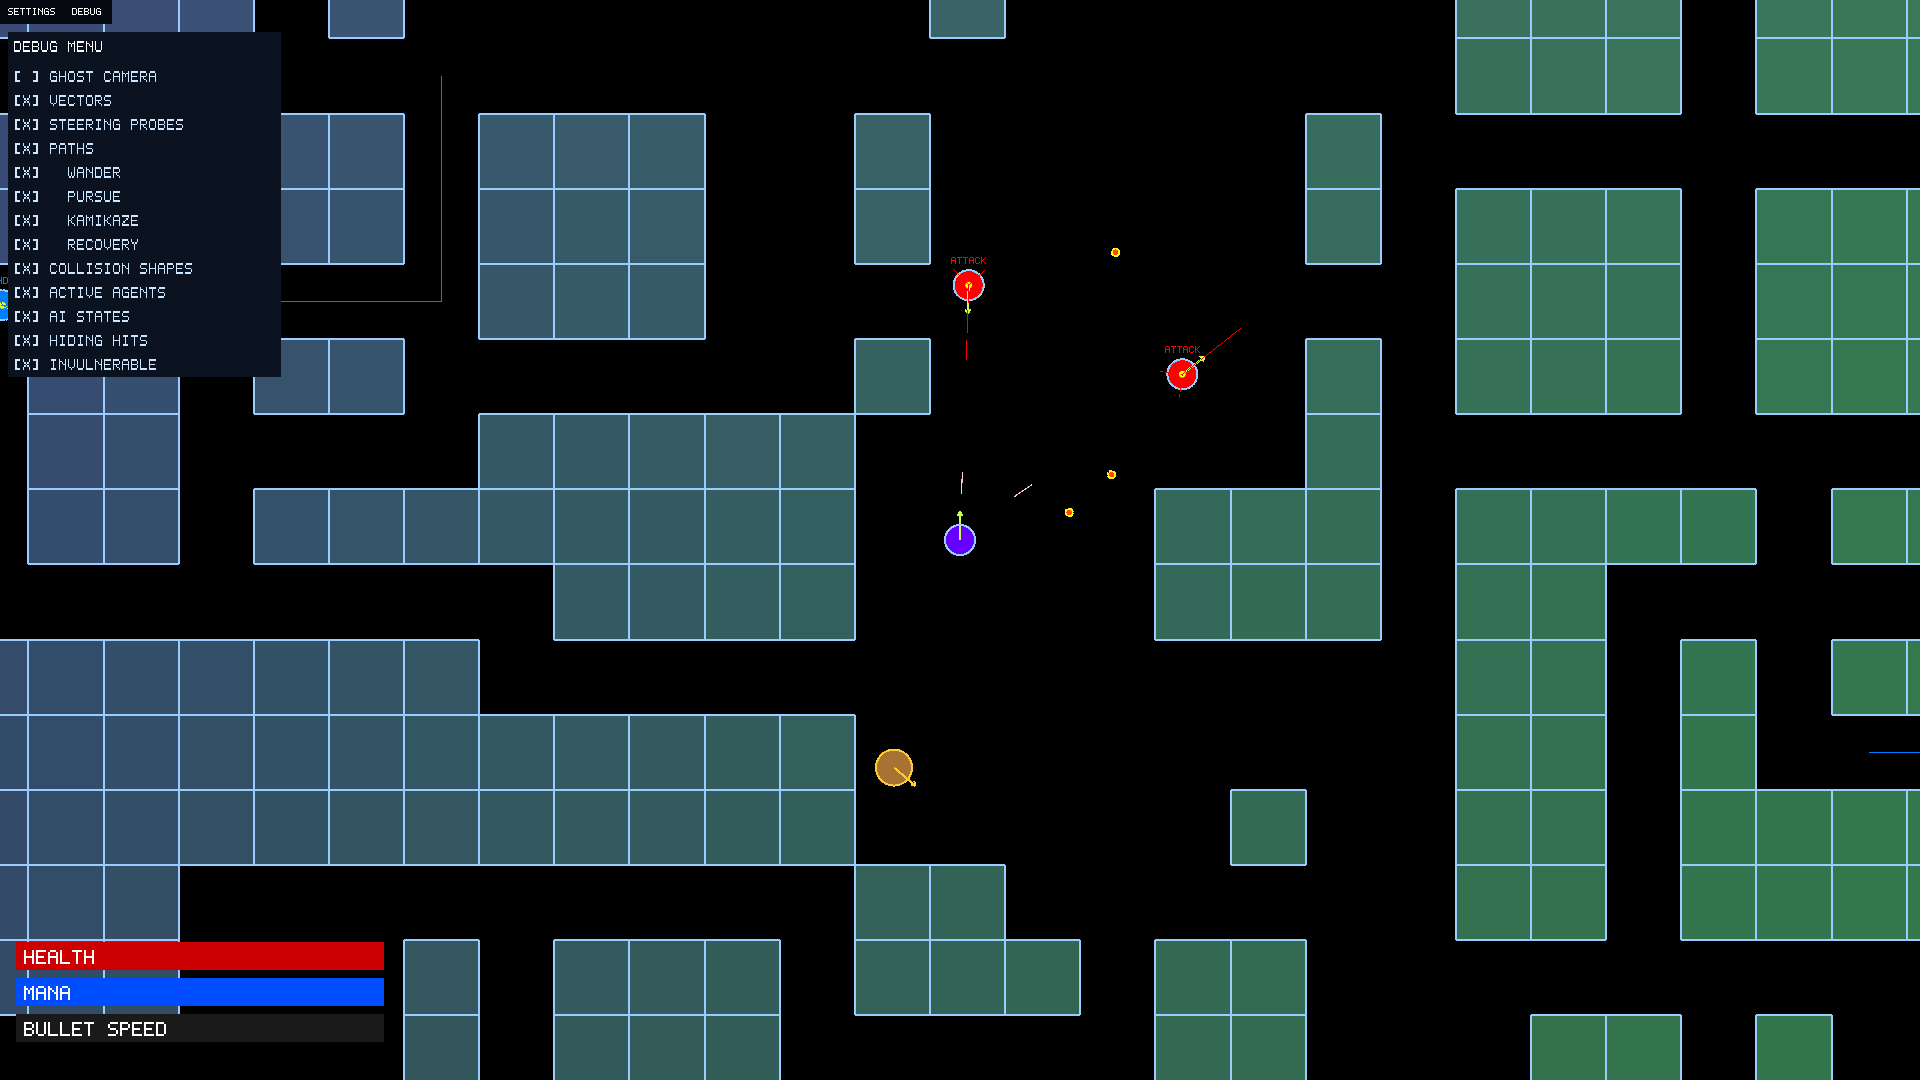
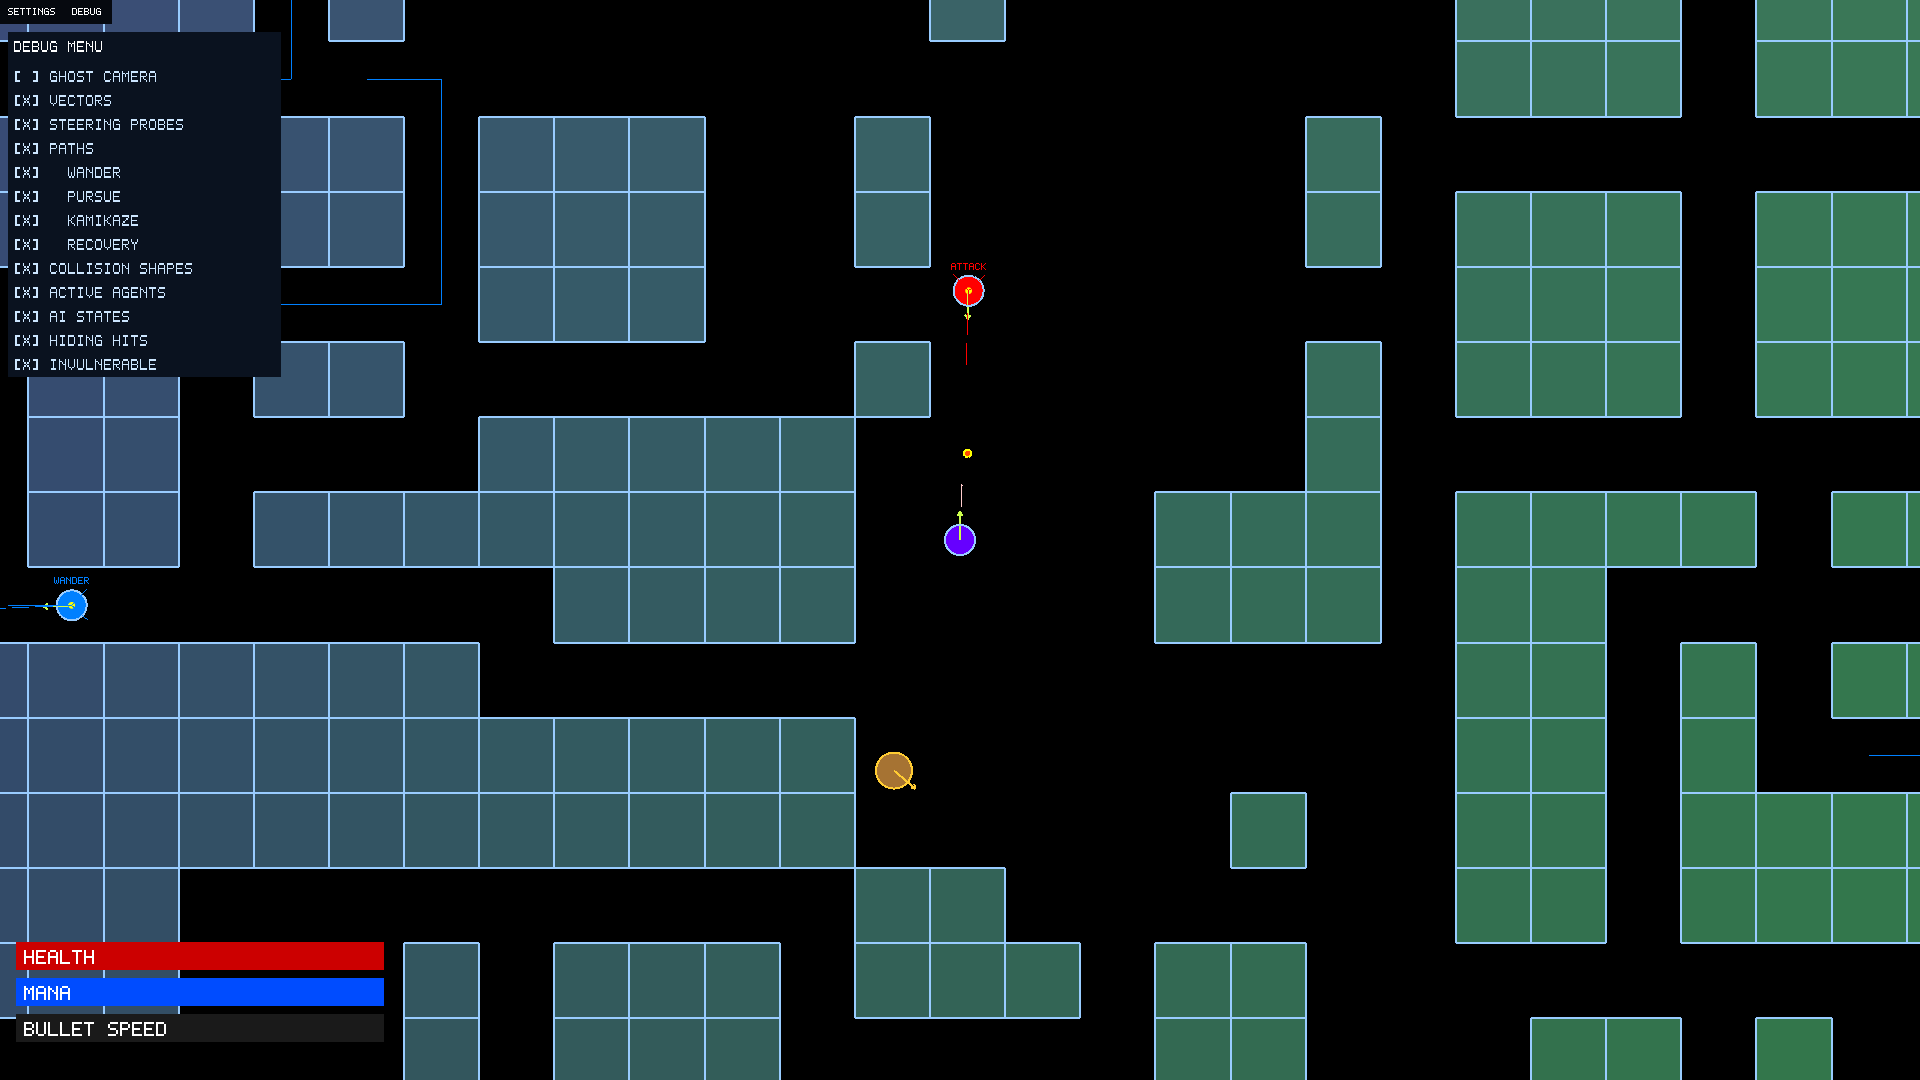
feat(tools): take the Dotio screenshots while the player shoots at an enemy
A screenshot after a fixed warm-up could show an empty corridor. The
player now plays on, 20 s at most, until an enemy is in sight and a bolt
is on its way. Refreshes the four Dotio captures with the reviewed player.

diff --git a/tools/capture/src/scenes.cpp b/tools/capture/src/scenes.cpp
@@ -43,6 +43,8 @@ constexpr double i4sim_warm_up_seconds = 116;
 /// Wheel notches the Dotio debug scenes zoom out: the screenshot for a wider view of the
 /// agents, the clip far enough to show the whole area the enemies spawn in.
 constexpr float dotio_debug_zoom_out = -3, dotio_debug_clip_zoom_out = -9;
+/// Longest a Dotio screenshot waits for an enemy in sight with a bolt on its way, in seconds.
+constexpr int dotio_fight_wait_seconds = 20;
 /// Longest the Dotio debug clip waits for an enemy to recover before it records anyway, in
 /// seconds. A recovery needs nine shots at the player; it usually comes within twenty.
 constexpr int dotio_recovery_wait_seconds = 60;
@@ -178,18 +180,35 @@ void dotio_debug_view(Stage &stage, float notches) {
     stage.step(zoom);
 }
 
+/// Frames the Dotio warm-up plays; a scene that plays on continues the count from here.
+constexpr int dotio_warm_up_frames = static_cast<int>(dotio_warm_up_seconds * clip_fps);
+
 void dotio_start(Stage &stage, bool debug) {
     stage.start_dotio();
     if (debug)
         dotio_debug_view(stage, dotio_debug_zoom_out);
     stage.point_at(at(stage, .7f, .45f));
-    stage.play(static_cast<int>(dotio_warm_up_seconds * clip_fps),
-               [&](int frame) { return dotio_play(stage, frame); });
+    stage.play(dotio_warm_up_frames, [&](int frame) { return dotio_play(stage, frame); });
 }
 
-/// Takes the screenshot of a started Dotio scene. The pointer first leaves the spot the
-/// player last aimed at: over the open debug menu it would highlight a row.
+/// Whether the player has an enemy in sight and a bolt on its way to it.
+bool dotio_fight_in_view(Stage &stage) {
+    if (!dotio_target(stage.dotio(), stage.runtime().camera))
+        return false;
+    for (auto &bolt : stage.dotio().world().GetBolts())
+        if (bolt.IsActive)
+            return true;
+    return false;
+}
+
+/// Takes the screenshot of a started Dotio scene at a moment that shows the game: the player
+/// plays on until it shoots at an enemy in sight. The pointer then leaves the spot the
+/// player aimed at, because over the open debug menu it would highlight a row.
 void dotio_shot(Stage &stage) {
+    stage.play_until(
+        dotio_fight_wait_seconds * clip_fps,
+        [&](int frame) { return dotio_play(stage, dotio_warm_up_frames + frame); },
+        [&] { return dotio_fight_in_view(stage); });
     stage.point_at(stage.viewport() - Vec2{2, 2});
     stage.shot();
 }
@@ -215,9 +234,7 @@ void dotio_settings(Stage &stage) {
 
 void dotio_clip(Stage &stage) {
     dotio_start(stage, false);
-    // Continues dotio_play() where the warm-up stopped.
-    const int played = static_cast<int>(dotio_warm_up_seconds * clip_fps);
-    stage.record(clip_frames, [&](int frame) { return dotio_play(stage, played + frame); });
+    stage.record(clip_frames, [&](int frame) { return dotio_play(stage, dotio_warm_up_frames + frame); });
 }
 
 /// The debug clip shows the AI cycle from a wide view with the menu closed. The player first
